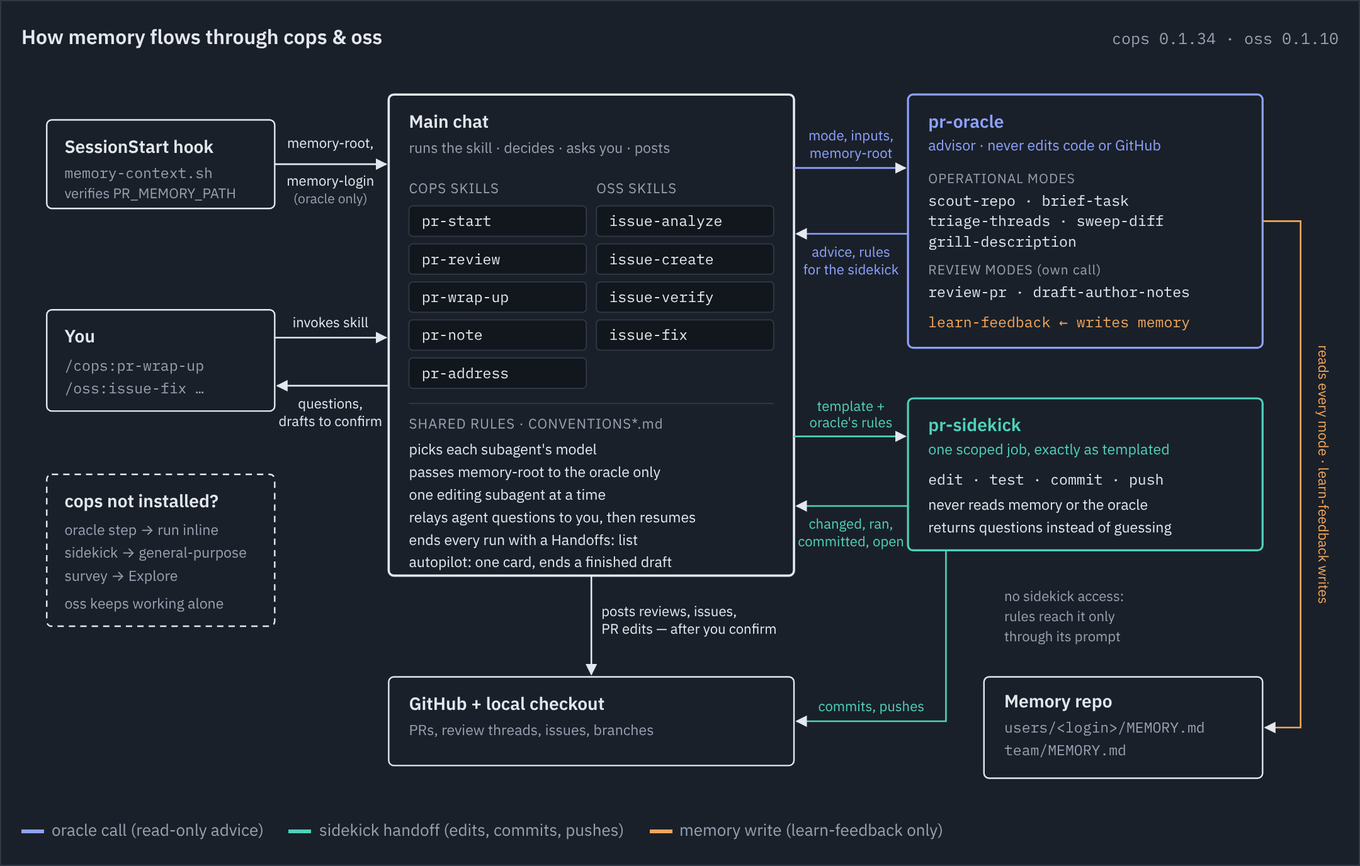
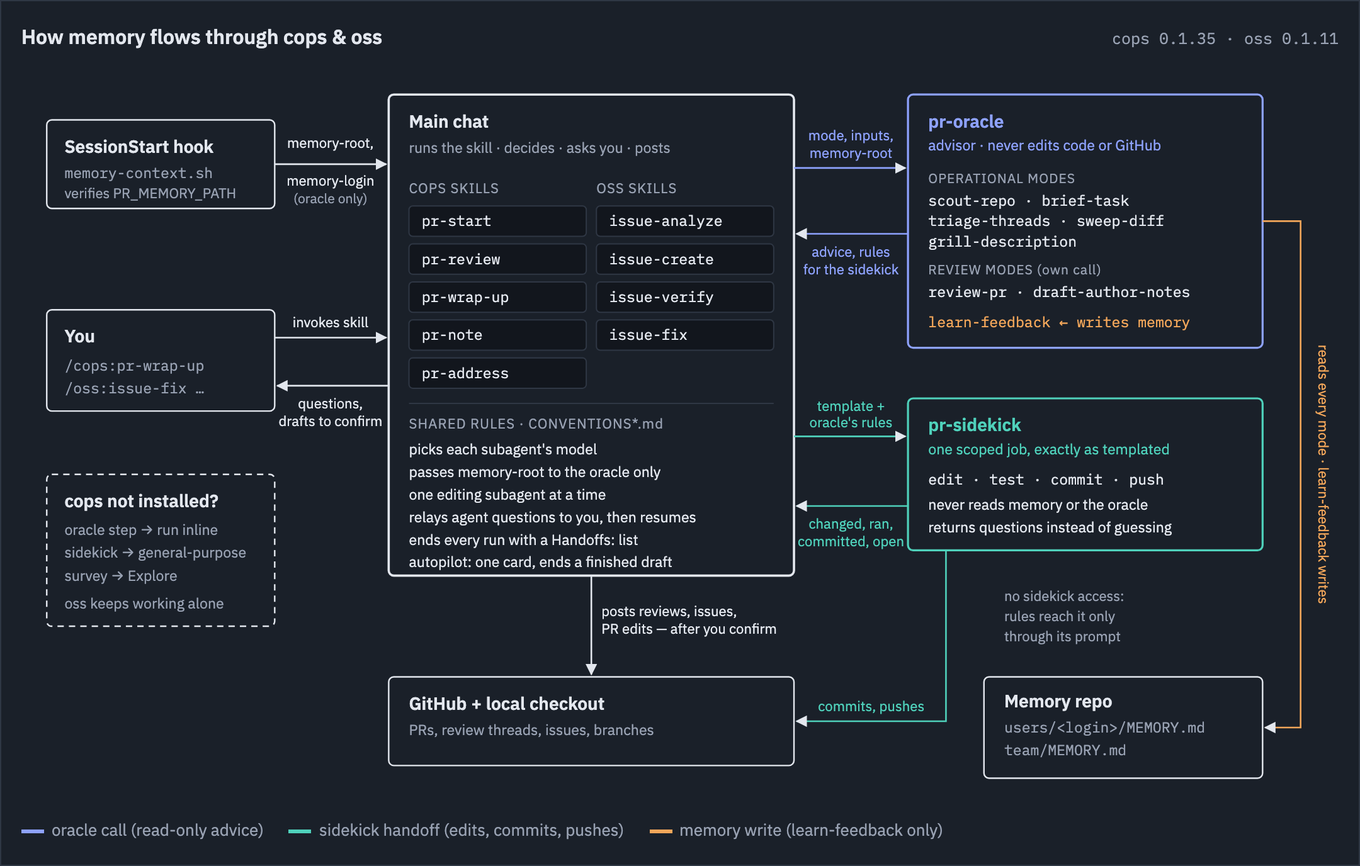
[cops][oss] feat: give memory rules permanent IDs (#113)
* feat: add permanent memory rule IDs

Rules get never-reused [U-/C-/T-nnn] IDs so skills, oracle replies and the Rules tab can cite one rule stably; hashing ignores the ID so stored usage keeps matching.

Skill: cops:pr-start
Approved-by: eddeee888

* fix: count a cited rule whose text another entry shares

Skill: cops:pr-address
Approved-by: eddeee888

* fix: let the oracle cite a rule that has no ID yet

Skill: cops:pr-address
Approved-by: eddeee888

* fix: limit ID promotion to a candidate becoming a personal rule

Skill: cops:pr-address
Approved-by: eddeee888

* fix: restore the memory-safety wording and raise the word budgets instead

The ID text pushed memory.md, pr-oracle.md and CONVENTIONS-orchestration.md over their word caps, and wording was cut to fit. Restore the removed lines and raise the three caps by the words the ID text adds.

Skill: cops:pr-start
Approved-by: eddeee888

* chore: re-render memory-flow.png with the bumped plugin versions

The PNG was last rendered before the version stamp existed, so it showed older versions than the HTML.

Skill: cops:pr-start
Approved-by: eddeee888

---------

diff --git a/cops/hooks/rule-usage.test.ts b/cops/hooks/rule-usage.test.ts
@@ -127,6 +127,24 @@ describe('rule usage counting', () => {
     expect(used({ stored, rule: 'Keep tests beside the code' })).toEqual({ count: 3, firstSeen: DAY, lastSeen: NOW, recent: [DAY, 2 * DAY, NOW] })
   })
 
+  test('a rule cited by ID alone or with its ID counts under the hash of its text', MEMORY, async ($, on) => {
+    const stored: Record<string, unknown> = { ruleUsage: { [hashRule({ text: 'Prefer early returns' })]: { count: 1, firstSeen: DAY, lastSeen: DAY, recent: [DAY] } } }
+    const files = {
+      [PERSONAL]: '## Everywhere\n- [U-014] Prefer early returns  (stated by user 2x)\n',
+      [TEAM]: '## Everywhere\n- [T-002] Keep tests beside the code  (stated by octocat)\n',
+    }
+    world({
+      on,
+      stored,
+      files,
+      replies: { 'mode: sweep-diff': '- a.ts:3  nested ifs  — rule: [U-014]\n- a.test.ts:1  test in a separate folder  — rule: [T-002] keep tests beside the code (stated by octocat, from team)' },
+    })
+    await oracle({ $, mode: 'sweep-diff' })
+    expect(used({ stored, rule: 'Prefer early returns' })).toEqual({ count: 2, firstSeen: DAY, lastSeen: NOW, recent: [DAY, NOW] })
+    expect(used({ stored, rule: 'Keep tests beside the code' })?.count).toBe(1)
+    expect(Object.keys(toRuleUsage({ stored: stored.ruleUsage }))).toHaveLength(2)
+  })
+
   test('counts nothing for unmatched text, no relevant memory, clean, or other modes', MEMORY, async ($, on) => {
     const stored: Record<string, unknown> = {}
     world({
@@ -178,6 +196,18 @@ describe('Rules tab', () => {
     await ui.unmount()
   })
 
+  test('shows a rule with its ID, and the Prune prompt names it', MEMORY, async ($, on) => {
+    const { fills } = world({ on, files: { [PERSONAL]: '## Everywhere\n- [U-014] Prefer early returns  (stated by user)\n' } })
+    const ui = await mount({ $ })
+    await until({ check: async () => (await ui.find({ key: 'tab-rules' })) !== undefined })
+    await ui.press({ key: 'tab-rules' })
+    await until({ check: async () => (await text({ ui })).includes('Stale rules (1)') })
+    expect(await text({ ui })).toContain('[U-014] Prefer early returns · never seen')
+    await ui.press({ key: 'prune-0' })
+    expect(fills).toEqual(['Use learn-feedback to prune this remembered rule: [U-014] Prefer early returns'])
+    await ui.unmount()
+  })
+
   test('a stale team rule is pruned with a record-team: prompt', MEMORY, async ($, on) => {
     const { fills } = world({ on })
     const ui = await mount({ $ })
@@ -224,6 +254,11 @@ describe('parseEntries', () => {
       .toEqual(['prefer early returns', 'use `x()` (not `y`)'])
   })
 
+  test('keeps a rule\'s leading ID', () => {
+    expect(parseEntries({ text: '## Everywhere\n- [U-014] prefer early returns  (stated by user)\n- [T-002] use `x()` (not `y`)  (seen 3x)  applies-to: **/*.sh\n' }))
+      .toEqual(['[U-014] prefer early returns', '[T-002] use `x()` (not `y`)'])
+  })
+
   test('reads only the first MEMORY_LIMIT lines', () => {
     const lines = ['## Code', ...Array.from({ length: MEMORY_LIMIT + 5 }, (_, index) => `- rule ${index + 1}`)]
     const rules = parseEntries({ text: lines.join('\n') })
@@ -238,6 +273,13 @@ describe('parseReply', () => {
       .toEqual(['prefer early returns', 'ask before pushing'])
     expect(parseReply({ text: '- a.ts:3  nested ifs  — rule: use `x()` (not `y`) (stated by user 2x, from you)' })).toEqual(['use `x()` (not `y`)'])
     expect(parseReply({ text: 'no relevant memory' })).toEqual([])
+  })
+
+  test('reads rules cited with their ID, or by ID alone', () => {
+    expect(parseReply({ text: '- [U-014] prefer early returns  (stated by user, from you)' })).toEqual(['[U-014] prefer early returns'])
+    expect(parseReply({ text: '- a.ts:3  nested ifs  — rule: [U-014] prefer early returns (stated by user, from you)' })).toEqual(['[U-014] prefer early returns'])
+    expect(parseReply({ text: '- a.ts:3  nested ifs  — rule: [U-014]' })).toEqual(['[U-014]'])
+    expect(parseReply({ text: '- a.ts:3  nested ifs  — rule: [U-014] (stated by user, from you)' })).toEqual(['[U-014]'])
     expect(parseReply({ text: 'clean' })).toEqual([])
   })
 })
@@ -254,6 +296,26 @@ describe('matching', () => {
     expect(matchEntries({ entries, cited: ['prefer early returns, always', 'PREFER EARLY RETURNS'] })).toEqual(['Prefer early returns'])
     expect(matchEntries({ entries, cited: ['keep tests'] })).toEqual(['Keep tests beside the code'])
     expect(matchEntries({ entries, cited: ['use pnpm', ''] })).toEqual([])
+  })
+
+  test('an ID prefix changes neither the hash nor text matching', () => {
+    expect(normalize({ text: '[U-014] Prefer early returns.' })).toBe('prefer early returns')
+    expect(hashRule({ text: '[U-014] Prefer early returns' })).toBe(hashRule({ text: 'Prefer early returns' }))
+    expect(hashRule({ text: '[T-002] Prefer early returns' })).toBe(hashRule({ text: '[U-014] prefer  early returns' }))
+    const entries = ['[U-014] Prefer early returns', '[T-002] Keep tests beside the code']
+    expect(matchEntries({ entries, cited: ['prefer early returns, always'] })).toEqual(['[U-014] Prefer early returns'])
+    expect(matchEntries({ entries: ['Prefer early returns'], cited: ['[U-014] prefer early returns'] })).toEqual(['Prefer early returns'])
+  })
+
+  test('matches a cited ID to the entry with that ID, each entry once', () => {
+    const entries = ['[U-014] Prefer early returns', '[T-002] Keep tests beside the code']
+    expect(matchEntries({ entries, cited: ['[T-002]', '[T-002] keep tests'] })).toEqual(['[T-002] Keep tests beside the code'])
+    expect(matchEntries({ entries, cited: ['[U-099]', '[C-014]'] })).toEqual([])
+  })
+
+  test('counts a cited ID whose text another entry shares', () => {
+    const entries = ['[U-003] Keep tests beside the code', '[T-001] Keep tests beside the code']
+    expect(matchEntries({ entries, cited: ['[T-001]'] })).toHaveLength(1)
   })
 })
 

diff --git a/cops/hooks/rule-usage.ts b/cops/hooks/rule-usage.ts
@@ -37,14 +37,19 @@ const stripEvidence = ({ text }: { text: string }): string => {
   return trimmed
 }
 
-// Rule text as matching compares it:
-//   '  Prefer   early returns. ' → 'prefer early returns'
-//   'Keep tests beside code;:'   → 'keep tests beside code'
-export const normalize = ({ text }: { text: string }): string =>
-  text.toLowerCase().replace(/\s+/g, ' ').trim().replace(/[\s.,;:!?…]+$/, '')
+// A rule's leading permanent ID, `[U-nnn]` personal, `[C-nnn]` candidate or `[T-nnn]` team, with the ID in group 1:
+//   '[U-014] prefer early returns' → 'U-014'
+const RULE_ID = /^\s*\[([UCT]-\d+)\]\s*/
 
-// A short key for a rule without its evidence, so a changing `2x` keeps it (FNV-1a over the normalized text):
-//   'Prefer early returns.' and 'prefer  early returns' → the same key
+// Rule text as matching compares it, without its ID:
+//   '  Prefer   early returns. '    → 'prefer early returns'
+//   'Keep tests beside code;:'      → 'keep tests beside code'
+//   '[U-014] Prefer early returns'  → 'prefer early returns'
+export const normalize = ({ text }: { text: string }): string =>
+  text.replace(RULE_ID, '').toLowerCase().replace(/\s+/g, ' ').trim().replace(/[\s.,;:!?…]+$/, '')
+
+// A short key for a rule without its ID or evidence, so a changing `2x` or a new ID keeps it (FNV-1a over the normalized text):
+//   'Prefer early returns.', 'prefer  early returns' and '[U-014] Prefer early returns' → the same key
 export const hashRule = ({ text }: { text: string }): string => {
   let hash = 0x811c9dc5
   for (const char of normalize({ text })) {
@@ -54,8 +59,9 @@ export const hashRule = ({ text }: { text: string }): string => {
   return hash.toString(16).padStart(8, '0')
 }
 
-// The rules of a MEMORY.md's first MEMORY_LIMIT lines, the ones the oracle reads, without their evidence: top-level `- ` bullets under `## ` headings:
+// The rules of a MEMORY.md's first MEMORY_LIMIT lines, the ones the oracle reads, with their IDs but without their evidence: top-level `- ` bullets under `## ` headings:
 //   '# Memory\n- loose\n## Code\n- prefer early returns  (stated by user 2x)\n  - detail' → ['prefer early returns']
+//   '## Everywhere\n- [U-014] prefer early returns  (stated by user)'                      → ['[U-014] prefer early returns']
 //   a rule on line MEMORY_LIMIT + 1                                                          → left out
 export const parseEntries = ({ text }: { text: string }): string[] => {
   const rules: string[] = []
@@ -80,6 +86,8 @@ export const parseEntries = ({ text }: { text: string }): string[] => {
 //   '- prefer early returns  (stated by user 2x, from you)'                          → ['prefer early returns']
 //   'caller only:\n- ask before pushing  (seen 2x, from you)'                        → ['ask before pushing']
 //   '- a.ts:3  nested ifs  — rule: prefer early returns (stated by user 2x, from team)' → ['prefer early returns']
+//   '- a.ts:3  nested ifs  — rule: [U-014] prefer early returns (stated by user)'     → ['[U-014] prefer early returns']
+//   '- a.ts:3  nested ifs  — rule: [U-014]'                                           → ['[U-014]']
 //   'no relevant memory', 'clean'                                                    → []
 export const parseReply = ({ text }: { text: string }): string[] =>
   text.split('\n').flatMap(line => {
@@ -91,17 +99,20 @@ export const parseReply = ({ text }: { text: string }): string[] =>
     return rule ? [rule] : []
   })
 
-// The entries a reply's rules match, each once: equal once normalized, or one a prefix of the other:
+// The entries a reply's rules match, each once: the same ID, or text equal once normalized, or one a prefix of the other:
 //   entries ['prefer early returns', 'keep tests beside code'], cited ['Prefer early returns, always.'] → ['prefer early returns']
 //   entries ['prefer early returns'], cited ['prefer'] → ['prefer early returns']
 //   entries ['prefer early returns'], cited ['use pnpm'] → []
+//   entries ['[U-014] prefer early returns'], cited ['[U-014]'] → ['[U-014] prefer early returns']
 export const matchEntries = ({ entries, cited }: { entries: string[]; cited: string[] }): string[] => {
+  const ids = cited.flatMap(text => RULE_ID.exec(text)?.[1] ?? [])
   const rules = cited.map(text => normalize({ text })).filter(Boolean)
-  return entries.filter((entry, index) => {
+  const matched = entries.filter(entry => {
     const own = normalize({ text: entry })
-    const isFirst = entries.findIndex(other => normalize({ text: other }) === own) === index
-    return own !== '' && isFirst && rules.some(rule => rule === own || rule.startsWith(own) || own.startsWith(rule))
+    const id = RULE_ID.exec(entry)?.[1]
+    return own !== '' && ((id !== undefined && ids.includes(id)) || rules.some(rule => rule === own || rule.startsWith(own) || own.startsWith(rule)))
   })
+  return matched.filter((entry, index) => matched.findIndex(other => normalize({ text: other }) === normalize({ text: entry })) === index)
 }
 
 // The usage after one reply matched `keys`, at `now`:

diff --git a/docs/memory-flow.html b/docs/memory-flow.html
@@ -41,7 +41,7 @@ svg .w { color: var(--write); } svg .w text { fill: var(--write); }
 <figure>
   <header>
     <strong>How memory flows through cops &amp; oss</strong>
-    <span id="versions">cops 0.1.34 · oss 0.1.10</span>
+    <span id="versions">cops 0.1.35 · oss 0.1.11</span>
   </header>
   <svg viewBox="0 0 1040 580" role="img" aria-label="The main chat runs a cops or oss skill. It calls pr-oracle for read-only advice and pr-sidekick for edit, test, commit and push loops. A SessionStart hook injects the memory root. Only the oracle receives the memory root and reads the memory repo, and only its learn-feedback mode writes it. The sidekick gets remembered rules through its prompt.">
     <defs>

diff --git a/cops/references/pr-oracle/learning.md b/cops/references/pr-oracle/learning.md
@@ -22,10 +22,13 @@ Never record secrets or tokens, reviewer traits, links, one-PR facts, or reposit
 Use one flat list beneath `## Everywhere`. Direct rules use `(stated by user)`, reviewer candidates retain concise provenance, and team rules use `(stated by <github-login>)`. A rule that only concerns some file types ends with `applies-to: <glob>[, <glob>]`, by type, never a repository path, such as `**/*.md` or `**/*.sh, **/*.bash`; one that holds for any file has none.
 
 ```markdown
+Retired: U-002
 ## Everywhere
-- Why section: one sentence, no bullets  (seen 3x)
-- A helper used by only one function lives inside that function  (stated by user)  applies-to: **/*.ts, **/*.js
-- Rejected: barrel `index.ts` re-exports — "hurts tree-shaking"
+- [U-001] Why section: one sentence, no bullets  (seen 3x)
+- [U-003] A helper used by only one function lives inside that function  (stated by user)  applies-to: **/*.ts, **/*.js
+- [U-004] Rejected: barrel `index.ts` re-exports — "hurts tree-shaking"
 ```
 
-Deduplicate exact and near-duplicate rules, preserving stronger evidence. Add new entries at the end. Keep active files below 200 lines by removing obsolete entries first. A requested team rule that contradicts a shared-convention contract or active team rule returns `conflict:` and is not written.
+**IDs.** Every rule bullet starts with a permanent `[X-nnn] ` ID; the letter is the file's namespace: `U` personal `MEMORY.md`, `C` `candidates.md`, `T` team `MEMORY.md`. Personal files share one number sequence; team has its own. A new rule gets the highest number ever used in its sequence + 1, counting rule IDs and `Retired:` lines, zero-padded to three digits. Never reuse a number. Deleting or merging away a rule adds its ID to the file's single `Retired:` line above the first heading. Editing a rule keeps its ID. Promoting a candidate into personal `MEMORY.md` keeps the number and takes the `U` letter: `[C-007]` becomes `[U-007]`, and no ID is retired. Merging into an existing rule keeps that rule's ID and retires the other. A rule without an ID gets one the next time its file is written.
+
+Deduplicate exact and near-duplicate rules, preserving stronger evidence and the older ID. Add new entries at the end. Keep active files below 200 lines by removing obsolete entries first. A requested team rule that contradicts a shared-convention contract or active team rule returns `conflict:` and is not written.

diff --git a/CONVENTIONS-orchestration.md b/CONVENTIONS-orchestration.md
@@ -82,7 +82,7 @@ Skills call it at their named points in modes `scout-repo`, `triage-threads`, `b
 - **The skill acts, the agent doesn't.** Caller pushes, replies, and edits. Report `promote:` once (repo-only rule belongs in `CLAUDE.md`). Show both rules for `conflict:` from an unrecorded contradictory `record-team:`.
 - **Pass what you have.** Include `login: <github-login>` if known; always include the selected `GitHub route:`. Later `scout-repo` calls get the run's first profile as `profile:`; `overrides:` is rebuilt from current memory. Review modes get owner/repo, PR number/URL, saved full head SHA, checkout status/path, and mode-specific inputs.
 - **Check what it loaded.** Every reply's `loaded:` must include `memory.md` and `modes/<mode>.md` per named mode. Missing or no `loaded:` → call again once, naming the missing files to read first. Still missing → use the reply and mark the handoff `✓ (incomplete load: <files>)`.
-- **Pass memory context.** Session context supplies the verified COPS memory root and configured memory login, or says each is unavailable/unset. Pass `memory-root: <absolute path | unavailable>` and `memory-login: <login | unset>` to every `pr-oracle` call. Never pass them to `pr-sidekick`: it reads no memory, and gets remembered rules only as oracle lines in its prompt. Never fill `memory-login` from `gh`, `get_me`, or `login:`.
+- **Pass memory context.** Session context supplies the verified COPS memory root and configured memory login, or says each is unavailable/unset. Pass `memory-root: <absolute path | unavailable>` and `memory-login: <login | unset>` to every `pr-oracle` call. Never pass them to `pr-sidekick`: it reads no memory, and gets remembered rules only as oracle lines, `[U-014]` IDs kept, in its prompt. Never fill `memory-login` from `gh`, `get_me`, or `login:`.
 - **Graduated memory consent.** Operational modes never write memory. Show `memory-candidate:` to the user; only explicit remember or promotion intent permits a separate `learn-feedback` call. On `not concrete:`, ask the user to restate the rule and call again with their wording; never rephrase it for them. Reviewer-derived rules stay inactive candidates until explicitly promoted.
 - **Team memory.** Only a separate `learn-feedback` call for an explicit team-memory request receives `record-team: <one line>`.
 

diff --git a/cops/CONVENTIONS-orchestration.md b/cops/CONVENTIONS-orchestration.md
@@ -82,7 +82,7 @@ Skills call it at their named points in modes `scout-repo`, `triage-threads`, `b
 - **The skill acts, the agent doesn't.** Caller pushes, replies, and edits. Report `promote:` once (repo-only rule belongs in `CLAUDE.md`). Show both rules for `conflict:` from an unrecorded contradictory `record-team:`.
 - **Pass what you have.** Include `login: <github-login>` if known; always include the selected `GitHub route:`. Later `scout-repo` calls get the run's first profile as `profile:`; `overrides:` is rebuilt from current memory. Review modes get owner/repo, PR number/URL, saved full head SHA, checkout status/path, and mode-specific inputs.
 - **Check what it loaded.** Every reply's `loaded:` must include `memory.md` and `modes/<mode>.md` per named mode. Missing or no `loaded:` → call again once, naming the missing files to read first. Still missing → use the reply and mark the handoff `✓ (incomplete load: <files>)`.
-- **Pass memory context.** Session context supplies the verified COPS memory root and configured memory login, or says each is unavailable/unset. Pass `memory-root: <absolute path | unavailable>` and `memory-login: <login | unset>` to every `pr-oracle` call. Never pass them to `pr-sidekick`: it reads no memory, and gets remembered rules only as oracle lines in its prompt. Never fill `memory-login` from `gh`, `get_me`, or `login:`.
+- **Pass memory context.** Session context supplies the verified COPS memory root and configured memory login, or says each is unavailable/unset. Pass `memory-root: <absolute path | unavailable>` and `memory-login: <login | unset>` to every `pr-oracle` call. Never pass them to `pr-sidekick`: it reads no memory, and gets remembered rules only as oracle lines, `[U-014]` IDs kept, in its prompt. Never fill `memory-login` from `gh`, `get_me`, or `login:`.
 - **Graduated memory consent.** Operational modes never write memory. Show `memory-candidate:` to the user; only explicit remember or promotion intent permits a separate `learn-feedback` call. On `not concrete:`, ask the user to restate the rule and call again with their wording; never rephrase it for them. Reviewer-derived rules stay inactive candidates until explicitly promoted.
 - **Team memory.** Only a separate `learn-feedback` call for an explicit team-memory request receives `record-team: <one line>`.
 

diff --git a/oss/CONVENTIONS-orchestration.md b/oss/CONVENTIONS-orchestration.md
@@ -82,7 +82,7 @@ Skills call it at their named points in modes `scout-repo`, `triage-threads`, `b
 - **The skill acts, the agent doesn't.** Caller pushes, replies, and edits. Report `promote:` once (repo-only rule belongs in `CLAUDE.md`). Show both rules for `conflict:` from an unrecorded contradictory `record-team:`.
 - **Pass what you have.** Include `login: <github-login>` if known; always include the selected `GitHub route:`. Later `scout-repo` calls get the run's first profile as `profile:`; `overrides:` is rebuilt from current memory. Review modes get owner/repo, PR number/URL, saved full head SHA, checkout status/path, and mode-specific inputs.
 - **Check what it loaded.** Every reply's `loaded:` must include `memory.md` and `modes/<mode>.md` per named mode. Missing or no `loaded:` → call again once, naming the missing files to read first. Still missing → use the reply and mark the handoff `✓ (incomplete load: <files>)`.
-- **Pass memory context.** Session context supplies the verified COPS memory root and configured memory login, or says each is unavailable/unset. Pass `memory-root: <absolute path | unavailable>` and `memory-login: <login | unset>` to every `pr-oracle` call. Never pass them to `pr-sidekick`: it reads no memory, and gets remembered rules only as oracle lines in its prompt. Never fill `memory-login` from `gh`, `get_me`, or `login:`.
+- **Pass memory context.** Session context supplies the verified COPS memory root and configured memory login, or says each is unavailable/unset. Pass `memory-root: <absolute path | unavailable>` and `memory-login: <login | unset>` to every `pr-oracle` call. Never pass them to `pr-sidekick`: it reads no memory, and gets remembered rules only as oracle lines, `[U-014]` IDs kept, in its prompt. Never fill `memory-login` from `gh`, `get_me`, or `login:`.
 - **Graduated memory consent.** Operational modes never write memory. Show `memory-candidate:` to the user; only explicit remember or promotion intent permits a separate `learn-feedback` call. On `not concrete:`, ask the user to restate the rule and call again with their wording; never rephrase it for them. Reviewer-derived rules stay inactive candidates until explicitly promoted.
 - **Team memory.** Only a separate `learn-feedback` call for an explicit team-memory request receives `record-team: <one line>`.
 

diff --git a/cops/README.md b/cops/README.md
@@ -124,7 +124,7 @@ All three live in one hooks module, [`hooks/cops.tsx`](hooks/cops.tsx). What the
 ## Agents
 
 - [`agents/pr-oracle.md`](agents/pr-oracle.md) — briefs, checks, reviews, and drafts author notes without editing code or GitHub. Its eight modes lazy-load only their dependencies: active-memory modes load `memory.md`, operational GitHub modes load `github-access.md`, review modes load `review-evidence.md`, and only `learn-feedback` loads `learning.md` or writes memory.
-  - **Memory:** a session-start hook resolves the configured path, verifies it is a Git root, and passes it and the configured `PR_MEMORY_LOGIN` into oracle calls. The oracle is the only agent that reads memory. Personal active rules are in `memory/users/<PR_MEMORY_LOGIN>/MEMORY.md`, reviewer-derived inactive candidates in `candidates.md`, and explicitly shared rules in `memory/team/MEMORY.md`.
+  - **Memory:** a session-start hook resolves the configured path, verifies it is a Git root, and passes it and the configured `PR_MEMORY_LOGIN` into oracle calls. The oracle is the only agent that reads memory. Personal active rules are in `memory/users/<PR_MEMORY_LOGIN>/MEMORY.md`, reviewer-derived inactive candidates in `candidates.md`, and explicitly shared rules in `memory/team/MEMORY.md`. Each rule starts with a permanent ID (`[U-014]` personal, `[C-…]` candidate, `[T-…]` team) that is never reused; a promoted candidate keeps its number (`[C-007]` → `[U-007]`), and oracle replies and the **Rules** tab show it.
   - **Consent:** operational modes may suggest `memory-candidate:` but never persist it. Skills call `learn-feedback` separately only after explicit user intent. Direct user rules may become active immediately; reviewer candidates require explicit promotion; team writes require `record-team:`.
   - **One-repo rules aren't remembered.** The oracle suggests that repo's
     `CLAUDE.md` instead, so teammates and CI see it too.

diff --git a/cops/agents/pr-oracle.md b/cops/agents/pr-oracle.md
@@ -33,7 +33,7 @@ Read GitHub only with read-only `gh api` REST calls, never MCP: operational mode
 
 Write only in that repository's `memory/users/<login>/` and `memory/team/`. Bash is read-only: local `git diff/log/blame` and allowed `gh api` reads. Never clone, pull, commit, or push memory. If blocked, request permission.
 
-Never broaden modes. Modes except `learn-feedback` may emit `memory-candidate: <rule/evidence>`, never persist. `sweep-diff` matches active rules; `brief-task` returns relevant active memory; `triage-threads` obeys supplied classification; `grill-description` never edits.
+Never broaden modes. Modes except `learn-feedback` may emit `memory-candidate: <rule/evidence>`, never persist. Cite a stored rule as `[<id>] <rule>` everywhere, suffixes included. No ID yet: `<rule>`. `sweep-diff` matches active rules; `brief-task` returns relevant active memory; `triage-threads` obeys supplied classification; `grill-description` never edits.
 
 ## Output suffixes
 
@@ -41,7 +41,7 @@ Return mode output, then applicable lines:
 
 - `loaded: <files actually read from ../references/pr-oracle/, comma-separated>` — always.
 - `promote: <rule>` for repository-only rules; `learn-feedback` uses its section.
-- `conflict: <line> — contradicts <rule and location>`.
+- `conflict: <line> — contradicts <[<id>] rule and location>`.
 - `memory login unset — configure PR_MEMORY_LOGIN; personal memory skipped` when `memory-login` is absent or `unset`; still read team memory and run.
 - `memory unavailable — configure an attached workspace Git root` when `memory.md` says to skip memory.
 

diff --git a/cops/references/pr-oracle/memory.md b/cops/references/pr-oracle/memory.md
@@ -17,6 +17,6 @@ Write only these files. Store only cross-repository rules; never name a reposito
 
 Write personal data only under `memory/users/<github-login>/`. Team writes require `learn-feedback` with `record-team:`. Never store repository-only rules.
 
-Before mode work, verify `memory-root` is an attached workspace Git root. Then read/apply only the first 200 lines of the current user's and team `MEMORY.md`. A rule ending `applies-to: <glob>[, <glob>]` applies only to paths a glob matches; no `applies-to:` → always applies. Never read another user's tree.
+Before mode work, verify `memory-root` is an attached workspace Git root. Then read/apply only the first 200 lines of the current user's and team `MEMORY.md`. A rule ending `applies-to: <glob>[, <glob>]` applies only to paths a glob matches; no `applies-to:` → always applies. Never read another user's tree. Rules start with an ID: `[U-nnn]` personal, `[T-nnn]` team. Cite rules as `[U-014] <rule>`, keeping the text.
 
 If `memory-root` is absent, `unavailable`, outside the workspace, or not a Git root, do not read or write memory. Run the requested mode without memory and append `memory unavailable — configure an attached workspace Git root`. Never clone, pull, commit, or push the memory repository.

diff --git a/cops/references/pr-oracle/modes/draft-author-notes.md b/cops/references/pr-oracle/modes/draft-author-notes.md
@@ -2,7 +2,7 @@
 
 Follow `../review-evidence.md`. Caller enforces authenticated author, open PR, and no outside comments. Derive the task from supplied sources, issue, body, and commits. If unstated, return no comments and `unverified: ["task source required"]`.
 
-`**Note:**` explains why an unexplained, non-obvious in-task choice exists. `**Drive-by:**` explains a justified out-of-task change, even when prose does. Unjustified drive-bys enter `remove-instead`, never comments. Skip noted lines, standard/code-explained choices, and excluded files. One comment per decision; mention repeats. No suggestion blocks, memory references, unnecessary sources, or signatures. Keep at most 10; count extras in `dropped`.
+`**Note:**` explains why an unexplained, non-obvious in-task choice exists. `**Drive-by:**` explains a justified out-of-task change, even when prose does. Unjustified drive-bys enter `remove-instead`, never comments. Skip noted lines, standard/code-explained choices, and excluded files. One comment per decision; mention repeats. No suggestion blocks, memory references or rule IDs, unnecessary sources, or signatures. Keep at most 10; count extras in `dropped`.
 
 Return only:
 

diff --git a/cops/references/pr-oracle/modes/scout-repo.md b/cops/references/pr-oracle/modes/scout-repo.md
@@ -27,4 +27,4 @@ Given `profile:`, return it with `overrides:` rebuilt from current memory and re
 
 When repository `CLAUDE.md` or `CONTRIBUTING.md` states a fact differently from an inference, the repository file wins.
 
-`overrides:` lists every section marked *Default* in the shared convention set for which repository `CLAUDE.md`, repository `CONTRIBUTING.md`, team memory, or personal memory says to do something different. When several sources differ, name only the strongest in this order: repository `CLAUDE.md`, repository `CONTRIBUTING.md`, team, personal. Follow “Defaults and contracts” in `CONVENTIONS.md`. Never list a contract section.
+`overrides:` lists every section marked *Default* in the shared convention set for which repository `CLAUDE.md`, repository `CONTRIBUTING.md`, team memory, or personal memory says to do something different. A team or personal source adds the rule's ID, e.g. `(you [U-014])`. When several sources differ, name only the strongest in this order: repository `CLAUDE.md`, repository `CONTRIBUTING.md`, team, personal. Follow “Defaults and contracts” in `CONVENTIONS.md`. Never list a contract section.
